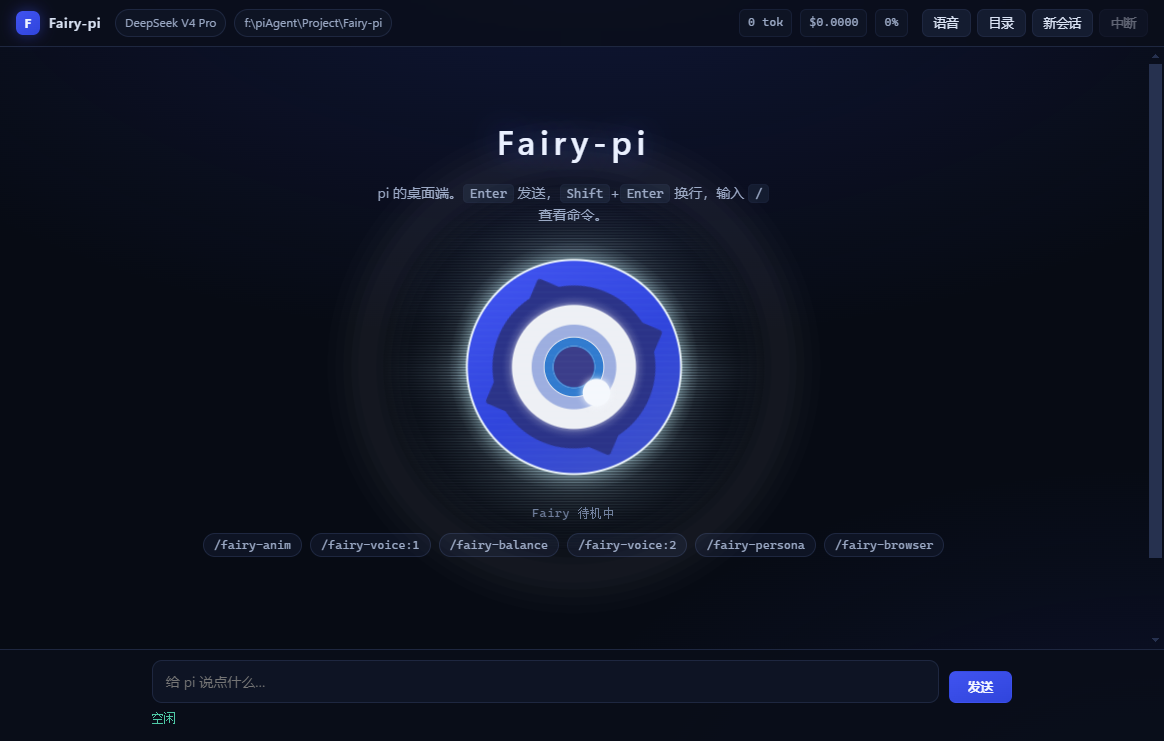
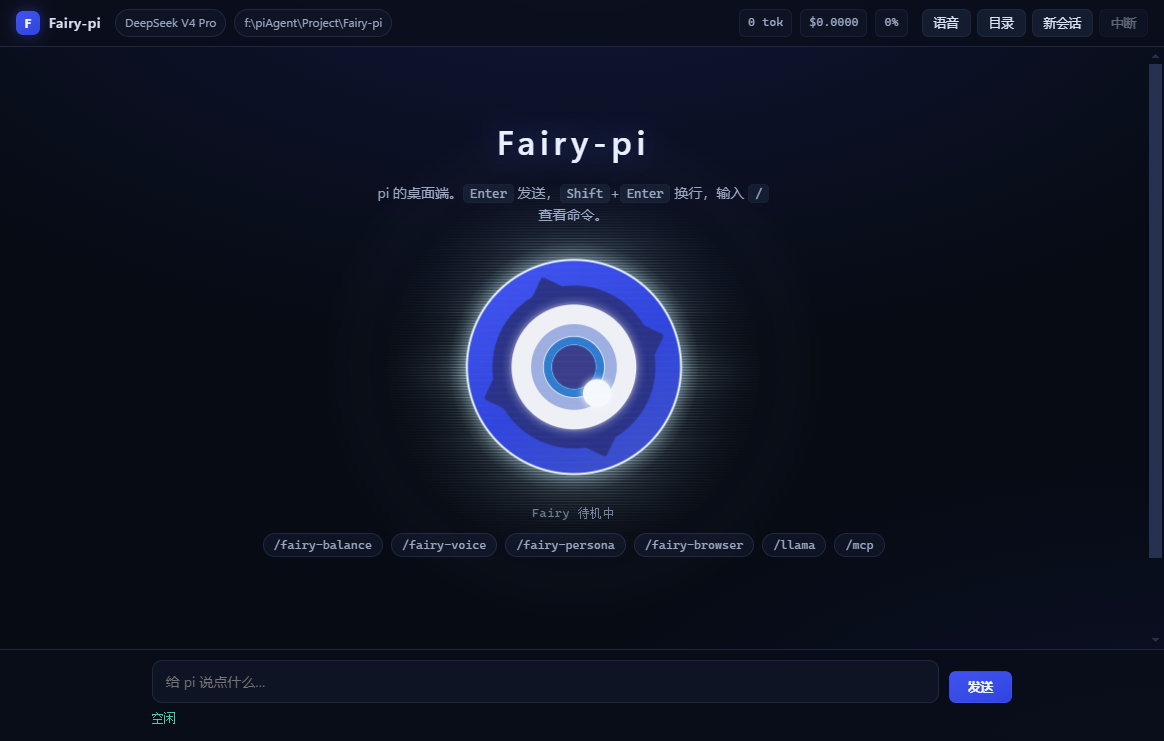
docs: 刷新界面截图并订正 README 计数
卸掉旧 pi-fairy 桌宠包后命令面板只剩无后缀的原始命令名，截图随之重录；
另外把 README 各地口径对齐实测（e2e 13 项、扩展测试 94 项）。

diff --git a/README.md b/README.md
@@ -117,7 +117,7 @@ npm run test:e2e   # 真开窗口、真发一句话、断言回复与用量
 
 **桌面端**：先用一个探针脚本确认 `pi --mode rpc` 的握手（`get_state` / `get_commands` / `get_session_stats` 均正常返回、关 stdin 后干净退出），然后对**打包出来的 `Fairy-pi.exe`** 跑了端到端：CDP 把它当用户操作——填输入框、派发提交、轮询界面——断言 13 项全部通过（含欢迎态与对话态两张截图落盘），其中窗口标题为 `Fairy-pi · pi 1.0.4`、模型 chip 显示 `DeepSeek V4 Pro`、用户消息与助手回复都在屏上、`agent_settled` 后运行态回「空闲」、用量累计到 `5,835 tok`。Fairy 形象确实挂载（`[data-dsh-fairy-mascot-root="true"]`），子进程确认为 `node.exe <pi cli.js> --mode rpc`。
 
-**命令名必须原样使用**：`get_commands` 里同名的两个命令，pi 会改名为 `fairy-voice:1` / `fairy-voice:2`（本机实测：`:1` 是旧的 pi-fairy 桌宠包，`:2` 是本包）。这两个后缀名才是可派发的命令——把后缀去掉得到的 `/fairy-voice` 不是命令，pi 会**把它当普通输入交给模型**（实测回包 `disposition: "started"`，模型开始翻目录找这个技能）。所以命令面板与欢迎态 chips 一律显示 `get_commands` 给出的原始名字，不做美化。
+**命令名必须原样使用**：`get_commands` 里同名的两个命令，pi 会改名为 `fairy-voice:1` / `fairy-voice:2`（本机实测：`:1` 是旧的 pi-fairy 桌宠包，`:2` 是本包；那之后已用 `pi remove "G:\AI_Project\pi-fairy"` 卸掉旧包，现在本机只剩无后缀的 `fairy-voice`）。这两个后缀名才是可派发的命令——把后缀去掉得到的 `/fairy-voice` 不是命令，pi 会**把它当普通输入交给模型**（实测回包 `disposition: "started"`，模型开始翻目录找这个技能）。所以命令面板与欢迎态 chips 一律显示 `get_commands` 给出的原始名字，不做美化。
 
 **桌面端的三个真实缺陷**（都是实机跑出来的，不是推演）：一是 `path.join('F:', 'Users')` 会得到盘符相对的 `F:Users`，导致装在非系统盘时定位不到 pi；二是 PATH 分支多剥了一层目录，把 `agent_data` 丢了；三是按「去后缀」去重命令名，产出了派发不了的假命令。三处都已修，前两处加了不依赖 Electron 的定位单测，第三处改为一律原样显示；另修掉一个纯视觉问题——空输入框上多余的滚动条。
 
@@ -149,7 +149,7 @@ Fairy-pi/
 │   ├── src/renderer/        界面（index.html / styles.css / app.js）
 │   ├── vendor/fairy-mascot/ Fairy-DSH 形象模块原样副本
 │   └── scripts/             build-mascot / smoke / e2e / package
-└── tests/                   88 项扩展测试
+└── tests/                   94 项扩展测试
 ```
 
 ## 开发
